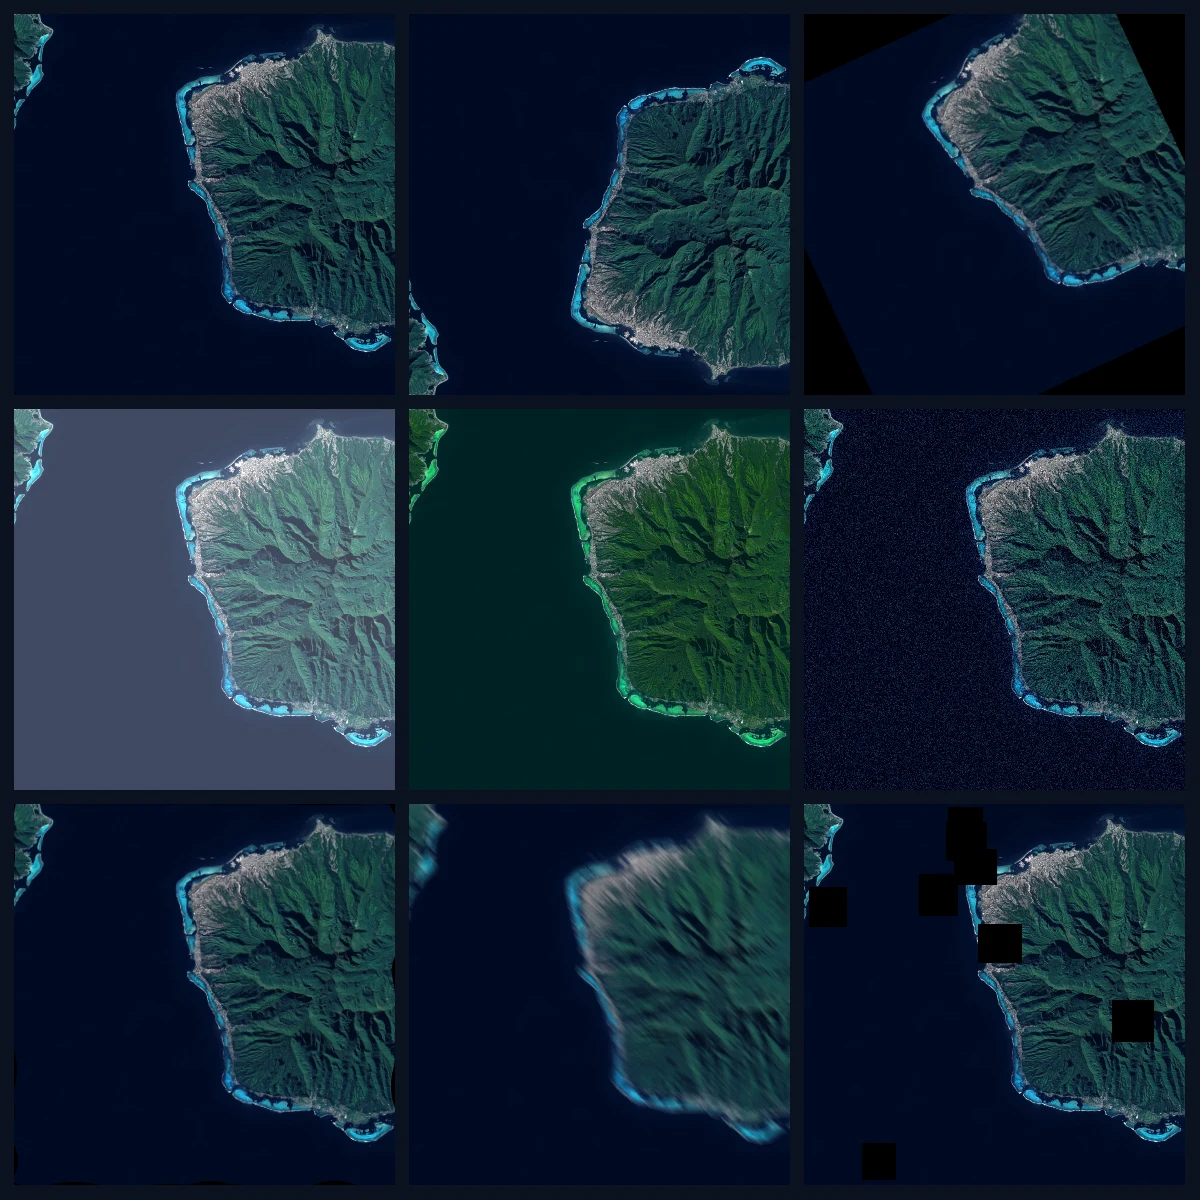
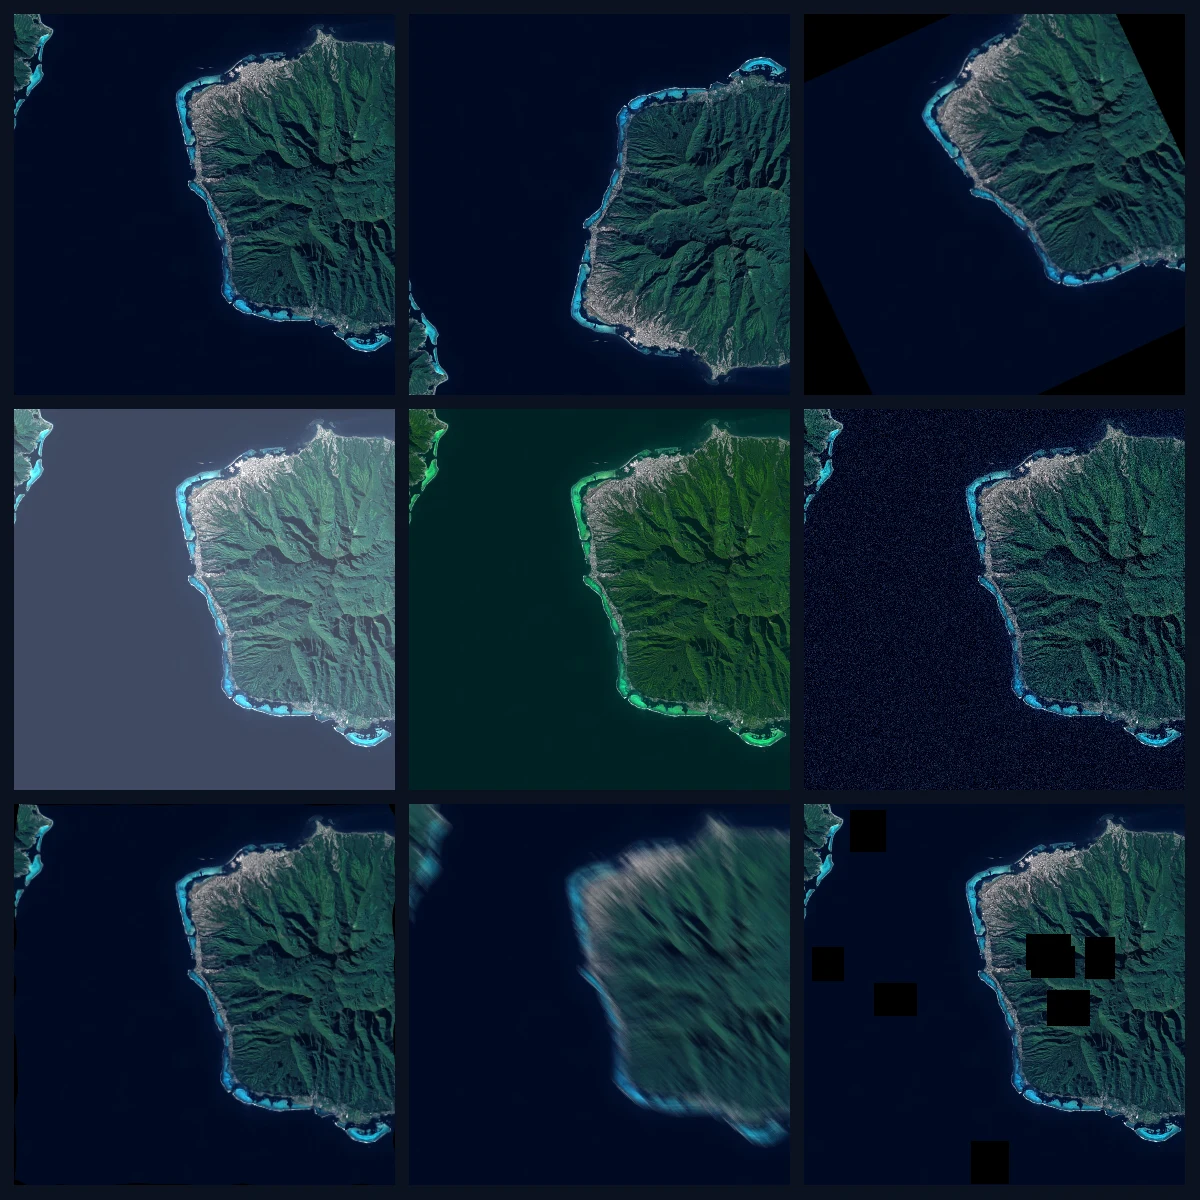
fix(blog): valid front matter, real links, deterministic hero build
Made-with: Cursor

diff --git a/posts/2026/02-albumentations-in-geospatial/images/build_hero.py b/posts/2026/02-albumentations-in-geospatial/images/build_hero.py
@@ -19,7 +19,6 @@ import numpy as np
 HERE = Path(__file__).parent
 SRC = HERE / "moorea_source.jpg"
 OUT_WEBP = HERE / "hero.webp"
-OUT_PNG = HERE / "hero.png"
 
 CARD_SIZE = 1200
 GUTTER = 14
@@ -88,6 +87,7 @@ def build_transforms() -> list[tuple[str, A.BasicTransform]]:
 
 
 def main() -> None:
+    # Per-cell seeds only — each Compose has its own RNG; no global np.random state.
     rng = np.random.default_rng(42)
     tile = load_tile()
     transforms = build_transforms()
@@ -97,18 +97,16 @@ def main() -> None:
 
     for i, (_name, tfm) in enumerate(transforms):
         row, col = divmod(i, GRID)
-        # seed each transform deterministically
-        np.random.seed(int(rng.integers(0, 1_000_000)))
-        out = tfm(image=tile)["image"]
+        cell_seed = int(rng.integers(0, 2**32 - 1))
+        compose = A.Compose([tfm], p=1.0, seed=cell_seed)
+        out = compose(image=tile)["image"]
         if out.shape != (CELL, CELL, 3):
             out = cv2.resize(out, (CELL, CELL), interpolation=cv2.INTER_AREA)
         y = GUTTER + row * (CELL + GUTTER)
         x = GUTTER + col * (CELL + GUTTER)
         canvas[y : y + CELL, x : x + CELL] = out
 
-    cv2.imwrite(str(OUT_PNG), canvas, [cv2.IMWRITE_PNG_COMPRESSION, 6])
     cv2.imwrite(str(OUT_WEBP), canvas, [cv2.IMWRITE_WEBP_QUALITY, 88])
-    print(f"wrote {OUT_PNG} ({OUT_PNG.stat().st_size // 1024} KB)")
     print(f"wrote {OUT_WEBP} ({OUT_WEBP.stat().st_size // 1024} KB)")
 
 

diff --git a/posts/2026/02-albumentations-in-geospatial/index.md b/posts/2026/02-albumentations-in-geospatial/index.md
@@ -1,28 +1,26 @@
 ---
-
-## title: "Albumentations in Geospatial: Who Actually Uses It"
-
+title: "Albumentations in Geospatial: Who Actually Uses It"
 date: 2026-04-22
 author: vladimir-iglovikov
 categories:
-
-- community
+  - community
 tags:
-- geospatial
-- remote-sensing
-- satellite-imagery
-- earth-observation
-- multispectral
-- adoption
-excerpt: "Reproducible audit of who uses Albumentations in the satellite / remote-sensing ecosystem: 5 OSS geo libraries (raster-vision, solaris, terratorch, NASA/IBM Prithvi, GeoSeg) depend on it, 44 public repos across 19 named geo organizations import it (NASA, IBM, Microsoft, AWS, DLR, JPL, Satellogic, Development Seed, Allen AI, Radiant Earth, Global Fishing Watch, World Resources Institute), and 382 geospatial papers cite it."
+  - geospatial
+  - remote-sensing
+  - satellite-imagery
+  - earth-observation
+  - multispectral
+  - adoption
+excerpt: "Reproducible audit of who uses Albumentations in the satellite / remote-sensing ecosystem: 5 OSS geo libraries (raster-vision, solaris, TerraTorch, NASA/IBM Prithvi, GeoSeg) depend on it, 44 public repos across 19 named geo organizations import it (NASA, IBM, Microsoft, AWS, DLR, JPL, Satellogic, Development Seed, Allen AI, Radiant Earth, Global Fishing Watch, World Resources Institute), and 382 geospatial papers cite it."
 image: images/hero.webp
 featured: false
+---
 
 # Albumentations in Geospatial: Who Actually Uses It
 
 Albumentations is infrastructure in the satellite / remote-sensing ecosystem, not a research curio. This post is the receipts: which named organizations import it, which OSS geo libraries declare it as a direct dependency, how many papers cite it, and how that adoption has grown year over year.
 
-All numbers below are reproducible from public APIs (GitHub Code Search, OpenAlex, HuggingFace Hub, project packaging files). Methodology and scripts live in `[src/geo_evidence/](https://github.com/albumentations-team)` — the headline grep for the org-scoped pass is literally `org:<name> "import albumentations"`.
+All numbers below are reproducible from public APIs: [OpenAlex](https://openalex.org/) (citations), [GitHub](https://github.com/) Code Search (org-scoped `import` queries), the [Hugging Face Hub](https://huggingface.co/) (tagged model cards), and root-level packaging files (`requirements.txt`, `pyproject.toml`, etc.) in each OSS repo. The headline org-scoped grep is `org:<name> "import albumentations"`.
 
 ## Headline
 
@@ -78,7 +76,7 @@ These are repository-rooted facts — the dependency is declared in `pyproject.t
 | ------------------- | --------------------------- | --------------------------------------------- | --------------------------------------------------------------------------- |
 | **raster-vision**   | Azavea / Element 84         | `requirements.txt`                            | [azavea/raster-vision](https://github.com/azavea/raster-vision)             |
 | **solaris**         | CosmiQ / IQT                | `setup.py; requirements.txt; environment.yml` | [CosmiQ/solaris](https://github.com/CosmiQ/solaris)                         |
-| **terratorch**      | IBM Research                | `pyproject.toml`                              | [IBM/terratorch](https://github.com/IBM/terratorch)                         |
+| **TerraTorch**      | IBM Research                | `pyproject.toml`                              | [IBM/terratorch](https://github.com/IBM/terratorch)                       |
 | **prithvi-pytorch** | NASA / IBM                  | `requirements.txt`                            | [NASA-IMPACT/Prithvi-EO-2.0](https://github.com/NASA-IMPACT/Prithvi-EO-2.0) |
 | **GeoSeg**          | Academic (Wuhan University) | `requirements.txt`                            | [WangLibo1995/GeoSeg](https://github.com/WangLibo1995/GeoSeg)               |
 
@@ -208,6 +206,6 @@ If you maintain a geospatial OSS project, foundation model, or training pipeline
 
 ---
 
-*This brief is regenerated from public APIs by `[src/geo_evidence/](https://github.com/albumentations-team)`. All counts are reproducible. Last regenerated 2026-04-19.*
+*This brief is regenerated from the public APIs above. All counts are reproducible. Last regenerated 2026-04-19.*
 
-*Hero image: nine Albumentations 2.2.0 transforms applied to the same Sentinel-2 tile of Moorea (French Polynesia). Source tile: ESA / CNES, [Copernicus Sentinel-2 imagery, 21 June 2021](https://commons.wikimedia.org/wiki/File:Moorea_et_Tahiti_vues_par_Sentinel_2.jpg), CC BY-SA 3.0 IGO. Grid produced by `[images/build_hero.py](images/build_hero.py)`.*
+*Hero image: nine Albumentations 2.2.0 transforms applied to the same Sentinel-2 tile of Moorea (French Polynesia). Source tile: ESA / CNES, [Copernicus Sentinel-2 imagery, 21 June 2021](https://commons.wikimedia.org/wiki/File:Moorea_et_Tahiti_vues_par_Sentinel_2.jpg), CC BY-SA 3.0 IGO. Grid produced by [build_hero.py](images/build_hero.py).*
